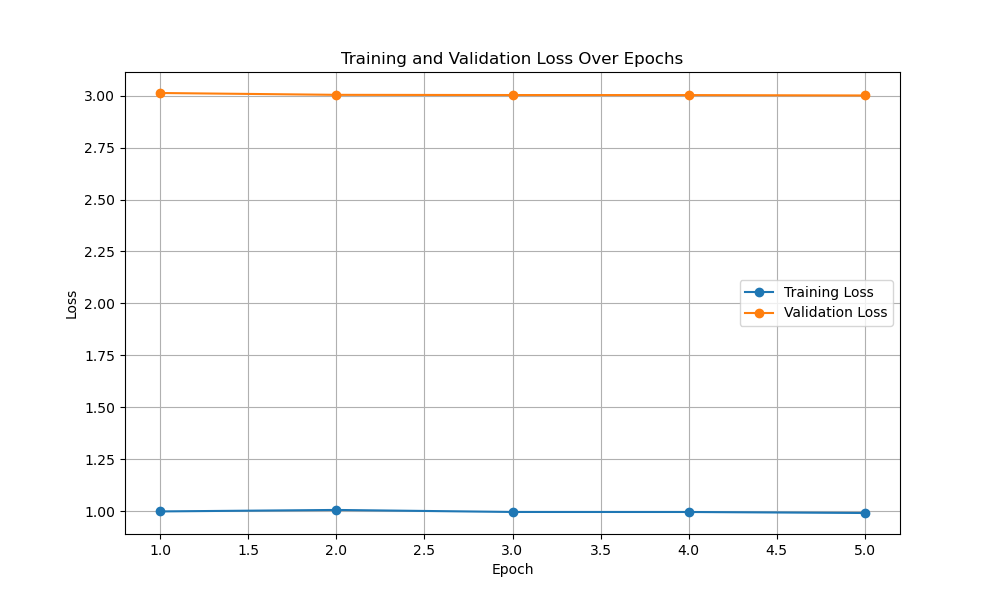
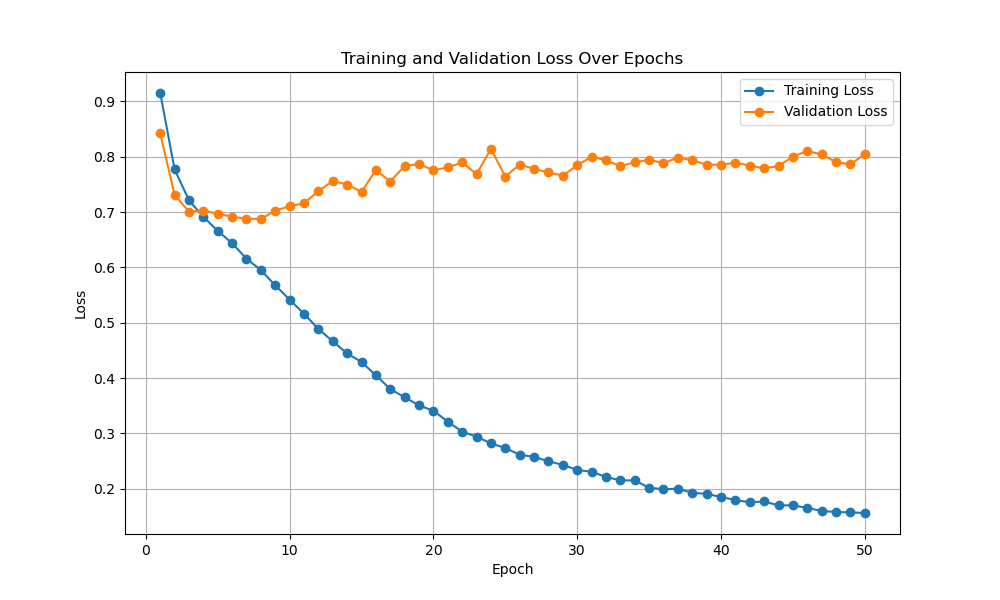
Training the model with 50 epochs: overfitting

diff --git a/vocal_assistant/emotion/predict_emotion.py b/vocal_assistant/emotion/predict_emotion.py
@@ -323,7 +323,7 @@ def validate(model, device, test_dataloader, alpha, beta):
     print(f"Validation Loss: {avg_val_loss}")
     return avg_val_loss
 
-def plot_losses(train_losses, val_losses, filename = "./loss_plot.png"):
+def plot_losses(train_losses, val_losses, filename = "./loss_plot_1.png"):
     plt.figure(figsize=(10, 6))
     plt.plot(range(1, len(train_losses) + 1), train_losses, label='Training Loss', marker='o')
     plt.plot(range(1, len(val_losses) + 1), val_losses, label='Validation Loss', marker='o')
